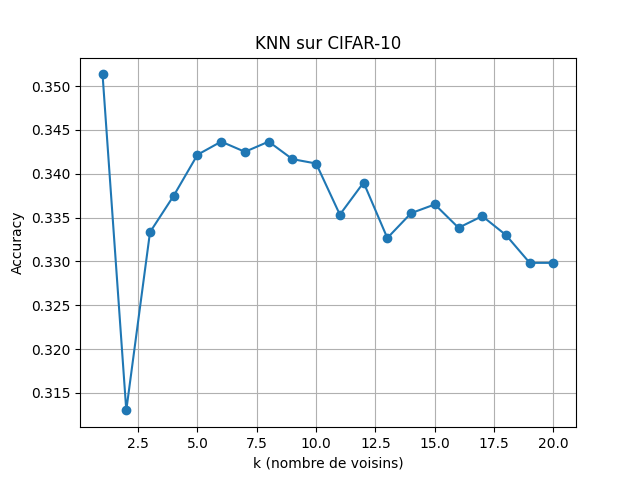
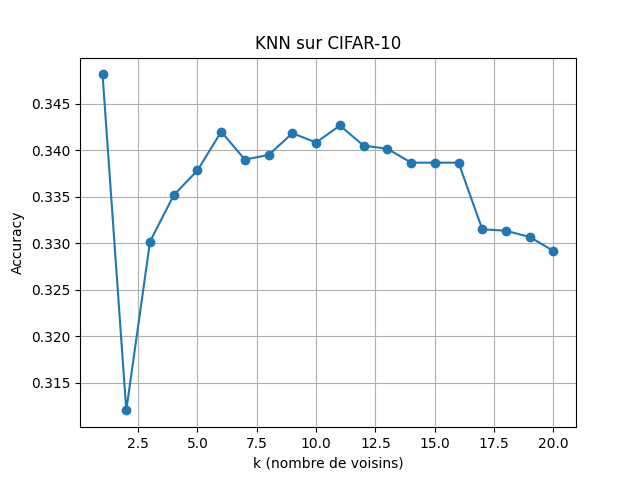
final

diff --git a/mlp.py b/mlp.py
@@ -26,7 +26,7 @@ def learn_once_mse(w1, b1, w2, b2, data, targets, learning_rate):
     z2 = a1 @ w2 + b2
     a2 = sigmoid(z2)
     
-    # Calcul du loss (MSE)
+    # Calcul de la loss (MSE)
     loss = np.mean((a2 - targets) ** 2)
     
     # Backpropagation
@@ -36,7 +36,6 @@ def learn_once_mse(w1, b1, w2, b2, data, targets, learning_rate):
 
     dC_da2 = 2 * (a2 - targets) / (batch_size * d_out)  # gradient MSE
     da2_dz2 = sigmoid_derivative(a2)
-    dz2_dw2 = a1.T
     
     dz2 = dC_da2 * da2_dz2
     dw2 = dz2.T @ a1
